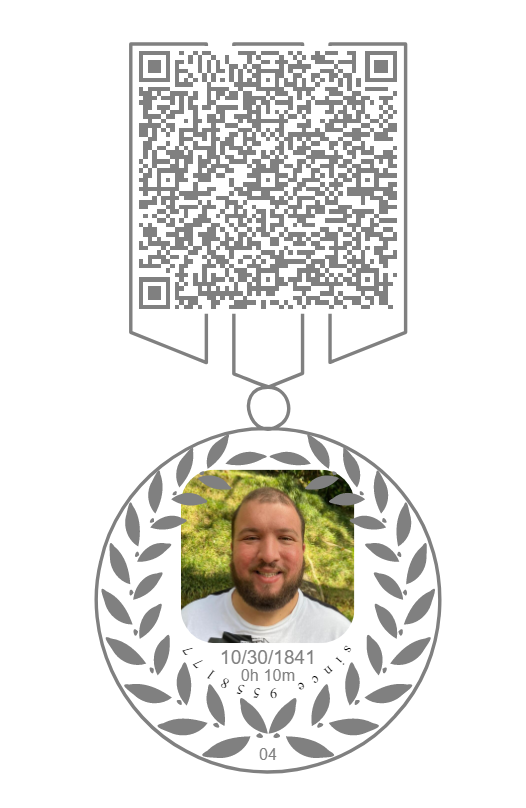
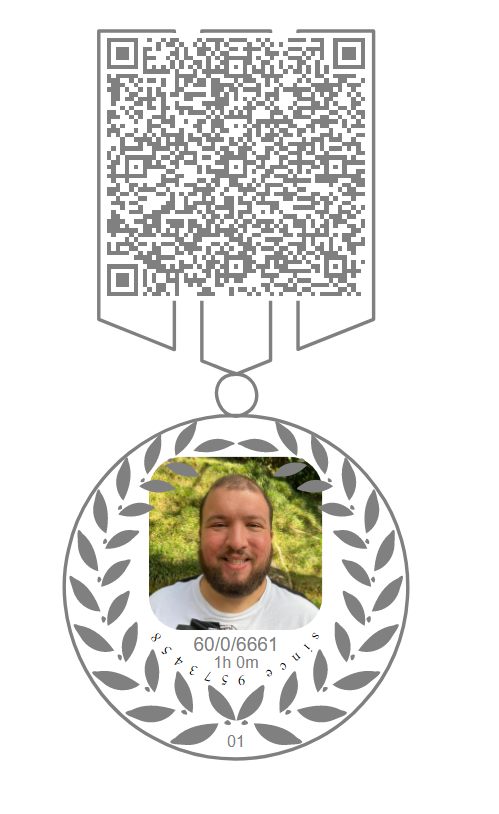
style(setup):Update text and images

Changed region(s): [[0.1202, 0.0309, 0.8417, 0.9592]]

diff --git a/guides/SetUp.md b/guides/SetUp.md
@@ -11,7 +11,7 @@ Those are the necessary steps to be ready to receive Laurels (The Laurel Project
 
 ## Prepare your Wallet
 
-1. Create an Etherium Wallet (if you already has one, you can skip this step)
+1. Create an Ethereum Wallet (if you already has one, you can skip this step)
    - Install the google chrome extension [metamask](https://metamask.io/download.html) and create an account there.
    - At the end, you will have your key number (looks like 0x90F79bf6EB2c4f870365E785982E1f101E93b906), you can access your number by clicking on the MetaMask extension, like this image below:
      :::center
@@ -19,9 +19,9 @@ Those are the necessary steps to be ready to receive Laurels (The Laurel Project
      :::
 
 - To now on, let's refer to this number as **laurel-key**
-- **Note**: The Laurel cryptocurrency uses the same technology as Etherium, but does not have a monetary value. The only way of trade this coin is earning it doing volunteer work (and if it has monetary value, the work will be paid, and Laurel will become just another cryptocurrency)
+- **Note**: The Laurel cryptocurrency uses the same technology as Ethereum, but does not have a monetary value. The only way of trade this coin is earning it doing volunteer work (the value of one Laurel is one minute of your service doing good to others/ the world)
 
-2. Connect the Etherium Wallet with our test network named **The Laurel: Rinkeby** - In the Metamask extension, change the network, as the image below:
+2. Connect the Ethereum Wallet with our test network named **The Laurel: Rinkeby** - In the Metamask extension, change the network, as the image below:
    :::center
    :Image[]{src="https://github.com/the-laurel/marks/blob/main/assets/change-network.PNG?raw=true"}
    :::
@@ -42,13 +42,16 @@ Those are the necessary steps to be ready to receive Laurels (The Laurel Project
 
 ## Make your first contribution
 
-- Ask another volunteer to be your ancestor in the system and register you (provide your **laurel-key**), and choose one of the above to do. **HERE I SUGGEST I WAY TO FIND THE VOLUNTEERS**
+- Ask another volunteer to be your ancestor in the system and register you (provide your **laurel-key**), and choose one of the above to do.
   - Retweet 5 tweets from @provable_laurel or another volunteer's tweets that are related to The Laurel and the technical projects developed under The Laurel (e.g. @lorecirstea)
   - Write a social media post (Twitter, Facebook, Reddit, Linkedin) saying what inspired you to join The Laurel and what your expectations/hopes are. We expect it to be honest and factually correct
   - Ask 5 questions about The Laurel Project and/or protocol, as comment [here](https://www.reddit.com/r/provable_laurel/comments/pt3opa/the_laurel_project_and_protocol_qa/) or other posts
   - Post a detailed first sight feedback [here](https://www.reddit.com/r/provable_laurel/comments/pt3vus/at_first_sight_no1/)
 - After done, let him/her know. Then wait for your ancestor to generate the validate link and click it
-- The page will looks like as the page above, in this link you should put the actual proof of you did (in this case the link of the post, but in the future can be any other proof) and then click in **submit** **THIS PRINT NEED A NOT VALIDATE REQUEST OF LAURELS**
+  :::center
+  :Image[]{src="https://github.com/the-laurel/marks/blob/main/assets/claim.PNG?raw=true"}
+  :::
+- The page will looks like as the page above, in this link you should put the actual proof of you did (in this case the link of the post, but in the future can be any other proof) and then click in **create proof url**
   :::center
   :Image[]{src="https://github.com/the-laurel/marks/blob/main/assets/validation.PNG?raw=true"}
   :::
@@ -60,4 +63,4 @@ Those are the necessary steps to be ready to receive Laurels (The Laurel Project
 :::center
 :Image[]{src="https://github.com/the-laurel/marks/blob/main/assets/medal.PNG?raw=true"}
 :::
-Note: That is my medal to write this tutorial for you 😎 **Change in the future for the actual medal**
+Note: That is my medal to write this tutorial for you 😎
